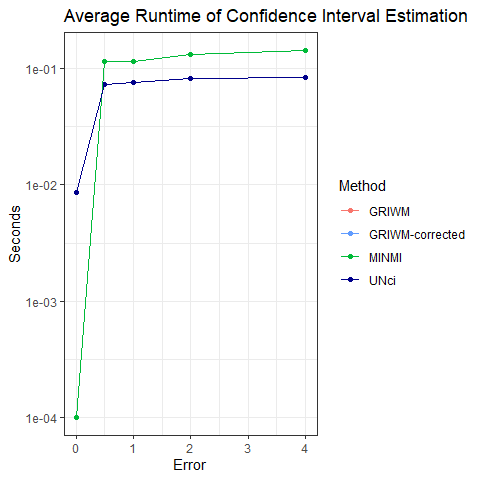
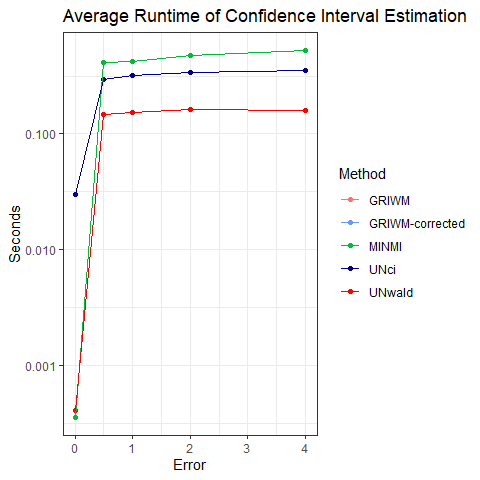
sim update - Wald intervals

diff --git a/ResultsSimulations.md b/ResultsSimulations.md
@@ -1,7 +1,7 @@
 Simulation Results
 ================
 Victor Tsang
-14 June, 2023
+15 June, 2023
 
 - <a href="#tldr" id="toc-tldr">TL;DR</a>
 - <a href="#point-estimates" id="toc-point-estimates">Point Estimates</a>
@@ -50,24 +50,24 @@ library(latex2exp)
 load("data/synthetic-data.RData")
 attach(synthetic.data.config)
 
-RESULTS_PATH <- 'data/simResults-20230614.RData'
+RESULTS_PATH <- 'data/simResults-20230615.RData'
 load(RESULTS_PATH)
 
 head(results)
 ```
 
     ##   error_factor method    lower    point    upper point_runtime conf_int_runtime
-    ## 1          0.0  MINMI 14312.97 14934.48 15068.02  8.392334e-05     8.392334e-05
-    ## 2          0.0   UNci 14684.29 15073.05 15073.05  3.243995e-02     3.243995e-02
-    ## 3          0.5  MINMI 14339.76 14984.56 15455.39  8.021498e-02     8.021498e-02
-    ## 4          0.5   UNci 14523.09 14999.31 15184.99  5.695987e-02     5.695987e-02
-    ## 5          1.0  MINMI 14089.58 14823.23 15792.84  8.206701e-02     8.206701e-02
-    ## 6          1.0   UNci 14344.55 14950.85 15195.65  5.069685e-02     5.069685e-02
+    ## 1          0.0  MINMI 14312.97 14934.48 15068.02  9.012222e-05     9.012222e-05
+    ## 2          0.0   UNci 14684.29 15073.05 15073.05            NA     9.035707e-02
+    ## 3          0.0 UNwald 15073.05 15073.05 15073.05  0.000000e+00     1.123714e-02
+    ## 4          0.5  MINMI 14341.41 14985.43 15450.47  1.045511e-01     1.045511e-01
+    ## 5          0.5   UNci 14522.93 14999.27 15184.97            NA     9.669209e-02
+    ## 6          0.5 UNwald 14750.29 14999.35 15248.40  1.270710e+02     4.822183e-02
     ##   B.lower B.point B.upper
     ## 1      NA      NA      NA
     ## 2     100     100     100
-    ## 3     103     100     100
-    ## 4     100     100     100
+    ## 3     100     100     100
+    ## 4     101     100     100
     ## 5     100     100     100
     ## 6     100     100     100
 
@@ -82,20 +82,25 @@ results %>%
     ## `summarise()` has grouped output by 'method'. You can override using the
     ## `.groups` argument.
 
-    ## # A tibble: 10 × 5
-    ## # Groups:   method [2]
+    ## # A tibble: 15 × 5
+    ## # Groups:   method [3]
     ##    method error_factor point.pct_na lower.pct_na upper.pct_na
     ##    <chr>         <dbl>        <dbl>        <dbl>        <dbl>
     ##  1 MINMI           0         14959.       14339.       15092.
     ##  2 MINMI           0.5       14889.       14239.       15355.
     ##  3 MINMI           1         14768.       14032.       15748.
-    ##  4 MINMI           2         14554.       13556.       16693.
-    ##  5 MINMI           4         13921.       12213.       18689.
+    ##  4 MINMI           2         14554.       13556.       16694.
+    ##  5 MINMI           4         13922.       12212.       18689.
     ##  6 UNci            0         15097.       14709.       15097.
     ##  7 UNci            0.5       14961.       14434.       15192.
     ##  8 UNci            1         14874.       14223.       15211.
     ##  9 UNci            2         14714.       13855.       15233.
     ## 10 UNci            4         14296.       13130.       15159.
+    ## 11 UNwald          0         15097.       15097.       15097.
+    ## 12 UNwald          0.5       14961.       14646.       15277.
+    ## 13 UNwald          1         14874.       14431.       15316.
+    ## 14 UNwald          2         14714.       14064.       15364.
+    ## 15 UNwald          4         14296.        -Inf          Inf
 
 # Point Estimates
 
@@ -129,51 +134,56 @@ for (i in 1:length(error_factors)) {
 performance.point.tbl[[1]]
 ```
 
-    ## # A tibble: 2 × 6
+    ## # A tibble: 3 × 6
     ##   error_factor method MSE_000  bias variance_000 avg_runtime
     ##          <dbl> <chr>    <dbl> <dbl>        <dbl>       <dbl>
-    ## 1            0 MINMI       11   -41            9     0.0001 
-    ## 2            0 UNci        18    97            9     0.00864
+    ## 1            0 MINMI       11   -41            9     0.00036
+    ## 2            0 UNci        18    97            9   NaN      
+    ## 3            0 UNwald      18    97            9     0
 
 ``` r
 performance.point.tbl[[2]]
 ```
 
-    ## # A tibble: 2 × 6
+    ## # A tibble: 3 × 6
     ##   error_factor method MSE_000  bias variance_000 avg_runtime
     ##          <dbl> <chr>    <dbl> <dbl>        <dbl>       <dbl>
-    ## 1          0.5 UNci        24   -39           22      0.0732
-    ## 2          0.5 MINMI       50  -111           38      0.115
+    ## 1          0.5 UNci        24   -39           22     NaN    
+    ## 2          0.5 UNwald      24   -39           22     161.   
+    ## 3          0.5 MINMI       50  -111           38       0.417
 
 ``` r
 performance.point.tbl[[3]]
 ```
 
-    ## # A tibble: 2 × 6
+    ## # A tibble: 3 × 6
     ##   error_factor method MSE_000  bias variance_000 avg_runtime
     ##          <dbl> <chr>    <dbl> <dbl>        <dbl>       <dbl>
-    ## 1            1 UNci        52  -126           36      0.0764
-    ## 2            1 MINMI      226  -232          173      0.117
+    ## 1            1 UNci        52  -126           36     NaN    
+    ## 2            1 UNwald      52  -126           36     226.   
+    ## 3            1 MINMI      226  -232          173       0.420
 
 ``` r
 performance.point.tbl[[4]]
 ```
 
-    ## # A tibble: 2 × 6
+    ## # A tibble: 3 × 6
     ##   error_factor method MSE_000  bias variance_000 avg_runtime
     ##          <dbl> <chr>    <dbl> <dbl>        <dbl>       <dbl>
-    ## 1            2 UNci       146  -286           64      0.0820
-    ## 2            2 MINMI      709  -446          510      0.133
+    ## 1            2 UNci       146  -286           64     NaN    
+    ## 2            2 UNwald     146  -286           64     331.   
+    ## 3            2 MINMI      708  -446          510       0.478
 
 ``` r
 performance.point.tbl[[5]]
 ```
 
-    ## # A tibble: 2 × 6
+    ## # A tibble: 3 × 6
     ##   error_factor method MSE_000  bias variance_000 avg_runtime
     ##          <dbl> <chr>    <dbl> <dbl>        <dbl>       <dbl>
-    ## 1            4 UNci      1022  -704          527      0.0840
-    ## 2            4 MINMI     4471 -1079         3310      0.143
+    ## 1            4 UNci      1022  -704          527     NaN    
+    ## 2            4 UNwald    1022  -704          527     Inf    
+    ## 3            4 MINMI     4468 -1078         3309       0.521
 
 #### Pivot to make plots
 
@@ -185,21 +195,21 @@ performance.point.long <- performance.point %>%
 performance.point.long
 ```
 
-    ## # A tibble: 40 × 4
+    ## # A tibble: 60 × 4
     ## # Groups:   Error [5]
-    ##    Error Method Metric       value
-    ##    <dbl> <chr>  <chr>        <dbl>
-    ##  1   0   MINMI  MSE_000   10.7    
-    ##  2   0   MINMI  Bias     -41.3    
-    ##  3   0   MINMI  Var_000    8.96   
-    ##  4   0   MINMI  Runtime    0.0001 
-    ##  5   0   UNci   MSE_000   18.1    
-    ##  6   0   UNci   Bias      96.9    
-    ##  7   0   UNci   Var_000    8.71   
-    ##  8   0   UNci   Runtime    0.00864
-    ##  9   0.5 MINMI  MSE_000   50.0    
-    ## 10   0.5 MINMI  Bias    -111.     
-    ## # … with 30 more rows
+    ##    Error Method Metric      value
+    ##    <dbl> <chr>  <chr>       <dbl>
+    ##  1     0 MINMI  MSE_000  10.7    
+    ##  2     0 MINMI  Bias    -41.3    
+    ##  3     0 MINMI  Var_000   8.96   
+    ##  4     0 MINMI  Runtime   0.00036
+    ##  5     0 UNci   MSE_000  18.1    
+    ##  6     0 UNci   Bias     96.9    
+    ##  7     0 UNci   Var_000   8.71   
+    ##  8     0 UNci   Runtime NaN      
+    ##  9     0 UNwald MSE_000  18.1    
+    ## 10     0 UNwald Bias     96.9    
+    ## # … with 50 more rows
 
 ### Plots
 
@@ -255,6 +265,13 @@ performance.point_estimates.plots[[3]]
 performance.point_estimates.plots[[4]]
 ```
 
+    ## Warning: Transformation introduced infinite values in continuous y-axis
+    ## Transformation introduced infinite values in continuous y-axis
+
+    ## Warning: Removed 5 row(s) containing missing values (geom_path).
+
+    ## Warning: Removed 5 rows containing missing values (geom_point).
+
 ![](ResultsSimulations_files/figure-gfm/unnamed-chunk-6-4.png)<!-- -->
 
 ## Commentary
@@ -294,6 +311,13 @@ performance.point_estimates.plots[[4]]
 performance.point_estimates.plot.grid = do.call(grid.arrange, performance.point_estimates.plots)
 ```
 
+    ## Warning: Transformation introduced infinite values in continuous y-axis
+    ## Transformation introduced infinite values in continuous y-axis
+
+    ## Warning: Removed 5 row(s) containing missing values (geom_path).
+
+    ## Warning: Removed 5 rows containing missing values (geom_point).
+
 ![](ResultsSimulations_files/figure-gfm/unnamed-chunk-7-1.png)<!-- -->
 
 ``` r
@@ -317,9 +341,9 @@ performance.CI <- results %>%
   mutate(width = upper - lower,
          contains_theta = ifelse(theta.true > lower & theta.true < upper, 1, 0)) %>%
   group_by(error_factor, method) %>%
-  summarise(Coverage = round(mean(contains_theta) * 100, 1),
-            `Average Width` = round(mean(width), 2),
-            `Average Runtime` = round(mean(conf_int_runtime), 5)) %>%
+  summarise(Coverage = round(mean(contains_theta, na.rm=TRUE) * 100, 1),
+            `Average Width` = round(mean(width, na.rm=TRUE), 2),
+            `Average Runtime` = round(mean(conf_int_runtime, na.rm=TRUE), 5)) %>%
   ungroup() %>%
   arrange(method, error_factor)
 ```
@@ -336,20 +360,20 @@ performance.CI.long <- performance.CI %>%
 performance.CI.long
 ```
 
-    ## # A tibble: 30 × 4
-    ##    Error Method Metric       value
-    ##    <dbl> <chr>  <chr>        <dbl>
-    ##  1   0   MINMI  Coverage   95.6   
-    ##  2   0   MINMI  Width     753.    
-    ##  3   0   MINMI  Runtime     0.0001
-    ##  4   0.5 MINMI  Coverage   95.4   
-    ##  5   0.5 MINMI  Width    1116.    
-    ##  6   0.5 MINMI  Runtime     0.115 
-    ##  7   1   MINMI  Coverage   95.5   
-    ##  8   1   MINMI  Width    1715.    
-    ##  9   1   MINMI  Runtime     0.117 
-    ## 10   2   MINMI  Coverage   97.2   
-    ## # … with 20 more rows
+    ## # A tibble: 45 × 4
+    ##    Error Method Metric        value
+    ##    <dbl> <chr>  <chr>         <dbl>
+    ##  1   0   MINMI  Coverage   95.6    
+    ##  2   0   MINMI  Width     753.     
+    ##  3   0   MINMI  Runtime     0.00036
+    ##  4   0.5 MINMI  Coverage   95.4    
+    ##  5   0.5 MINMI  Width    1116.     
+    ##  6   0.5 MINMI  Runtime     0.417  
+    ##  7   1   MINMI  Coverage   95.5    
+    ##  8   1   MINMI  Width    1716.     
+    ##  9   1   MINMI  Runtime     0.420  
+    ## 10   2   MINMI  Coverage   97      
+    ## # … with 35 more rows
 
 ## Coverage Probability
 
@@ -364,7 +388,7 @@ conf_int.coverage.plot <- performance.CI.long %>%
   labs(y = "Years", colour="Method", title="Coverage Probabilities") +
   scale_y_continuous(breaks=c(0, 25, 50, 75, 95, 100)) +
   theme(rect = element_rect(fill = "transparent")) +
-  scale_color_manual(values = c("GRIWM" = "#F8766D", "GRIWM-corrected" = "#619CFF", "MINMI" = "#00BA38", "UNci" = "darkblue"))
+  scale_color_manual(values = c("GRIWM" = "#F8766D", "GRIWM-corrected" = "#619CFF", "MINMI" = "#00BA38", "UNci" = "darkblue", "UNwald"="red"))
 ```
 
     ## Warning: Ignoring unknown parameters: linewidth
@@ -386,7 +410,7 @@ conf_int.width.plot <- performance.CI.long %>%
   theme_bw() +
   labs(y = "Years", colour="Method", title="Average Width of Estimated Confidence Intervals") +
   theme(rect = element_rect(fill = "transparent")) +
-  scale_color_manual(values = c("GRIWM" = "#F8766D", "GRIWM-corrected" = "#619CFF", "MINMI" = "#00BA38", "UNci"="darkblue"))
+  scale_color_manual(values = c("GRIWM" = "#F8766D", "GRIWM-corrected" = "#619CFF", "MINMI" = "#00BA38", "UNci"="darkblue", "UNwald"="red"))
 ```
 
     ## Warning: Ignoring unknown parameters: linewidth
@@ -409,7 +433,7 @@ conf_int.runtime.plot <- performance.CI.long %>%
   scale_y_continuous(trans=scales::log10_trans()) +
   labs(y = "Seconds", colour="Method", title="Average Runtime of Confidence Interval Estimation") +
   theme(rect = element_rect(fill = "transparent")) +
-  scale_color_manual(values = c("GRIWM" = "#F8766D", "GRIWM-corrected" = "#619CFF", "MINMI" = "#00BA38", "UNci"="darkblue"))
+  scale_color_manual(values = c("GRIWM" = "#F8766D", "GRIWM-corrected" = "#619CFF", "MINMI" = "#00BA38", "UNci"="darkblue", "UNwald"="red"))
 ```
 
     ## Warning: Ignoring unknown parameters: linewidth
@@ -499,3 +523,20 @@ Um, yes! Not at , as expected, because this is a sample minimum.
 
 Quantiles also seem to be approx normal with no outliers (except at
 where it looks like there is some non-convergence).
+
+#### How good are standard error estimates?
+
+``` r
+errors=unique(results$error_factor)
+nError=length(errors)
+par(mfrow=c(3,2),mgp=c(1.75,0.75,0),mar=c(3,2,0,0),oma=c(0,2,2,0))
+for(iError in 1:nError)
+{
+  tmp=results%>%filter(method=="UNwald" & error_factor==errors[iError]) %>% select(point,point_runtime)
+  nError=length(errors)
+  hist(tmp$point_runtime,xlab="SE",ylab="",main="")
+  abline(v=sd(tmp$point),col="red")
+}
+```
+
+![](ResultsSimulations_files/figure-gfm/waldSE-1.png)<!-- -->
